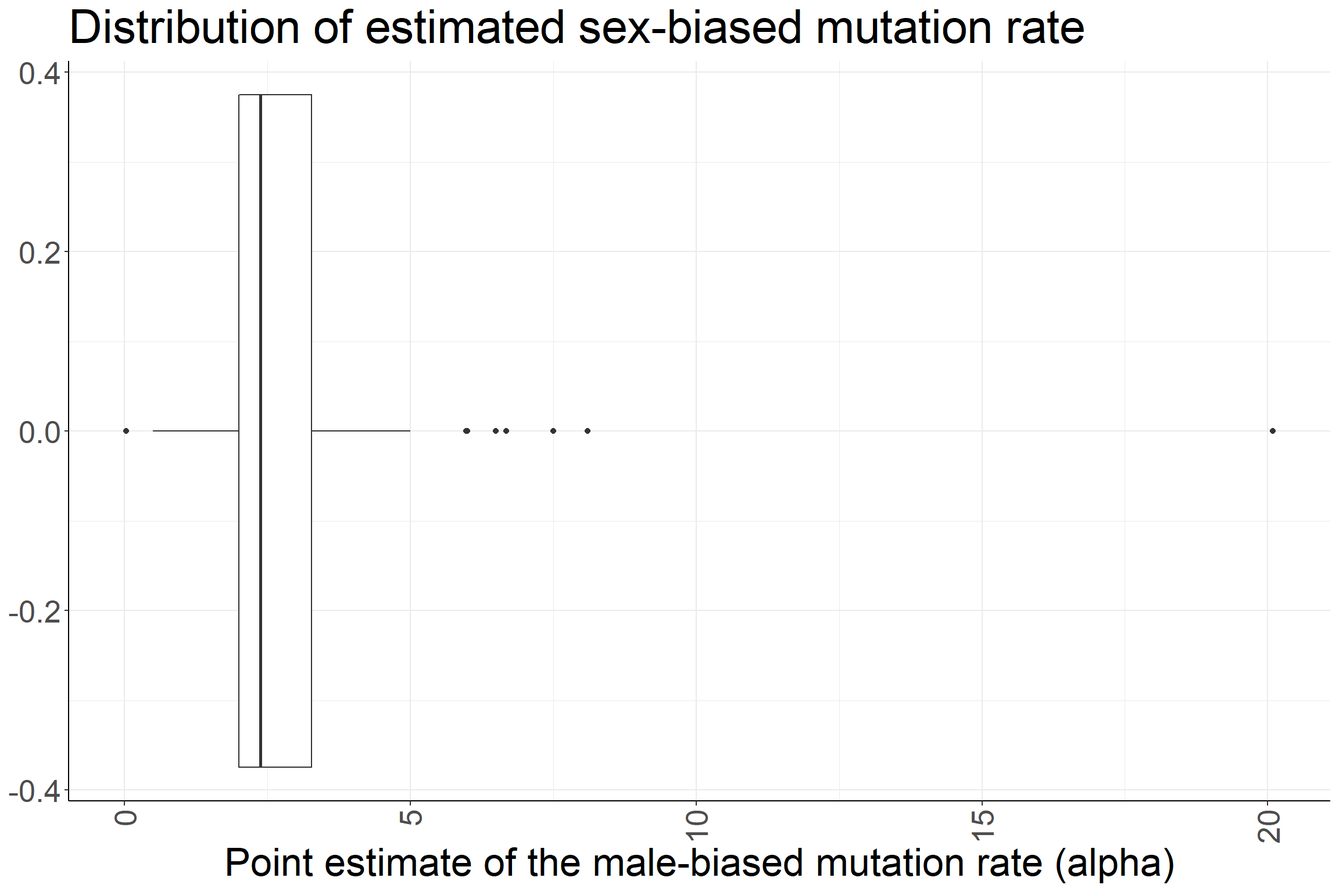
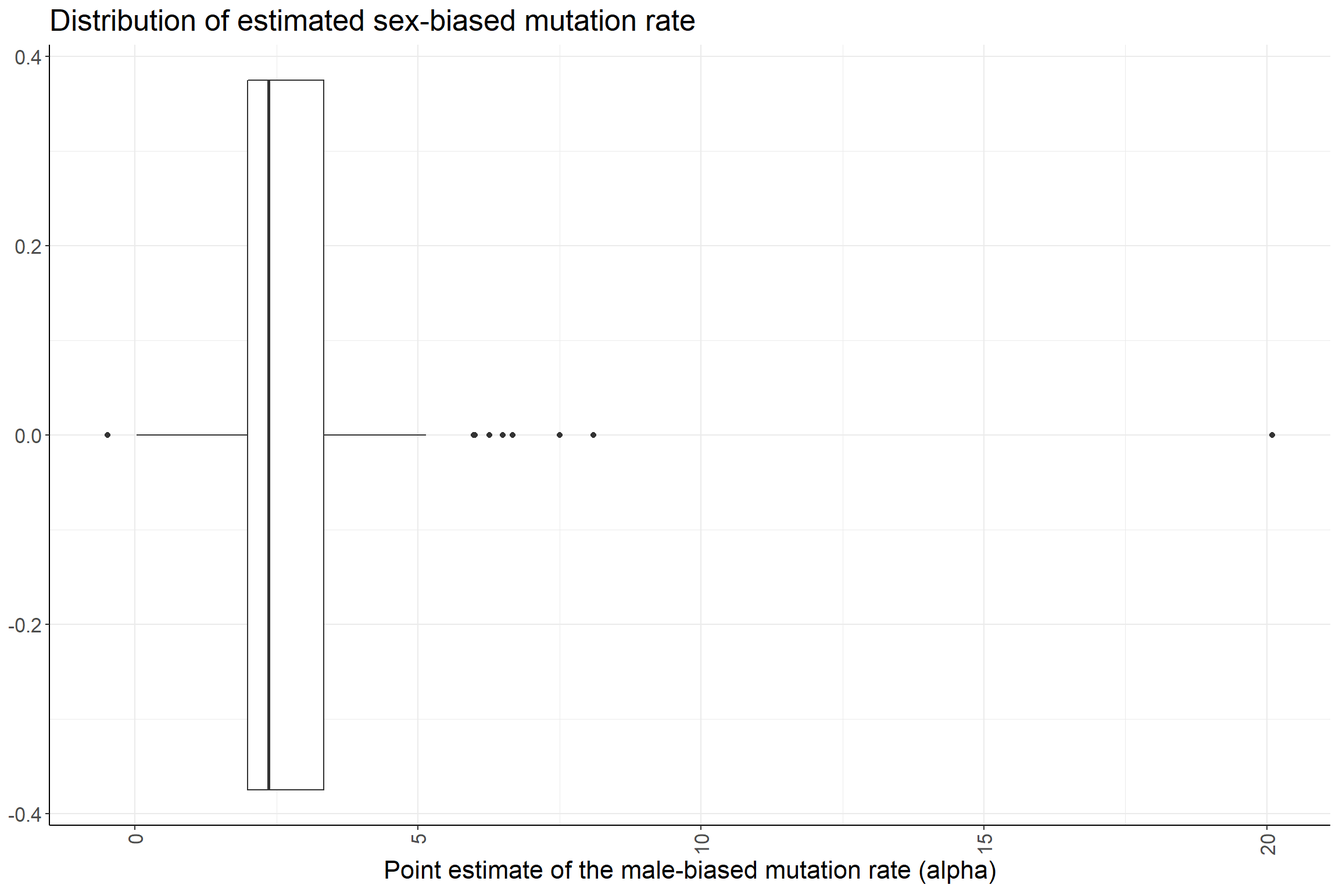
Build site.

diff --git a/docs/sex_biased_mutation_rate.html b/docs/sex_biased_mutation_rate.html
@@ -389,7 +389,7 @@ div.tocify {
 <div class="tab-content">
 <div id="summary" class="tab-pane fade in active">
 <p>
-<strong>Last updated:</strong> 2021-12-10
+<strong>Last updated:</strong> 2022-02-06
 </p>
 <p>
 <strong>Checks:</strong> <span class="glyphicon glyphicon-ok text-success" aria-hidden="true"></span> 7 <span class="glyphicon glyphicon-exclamation-sign text-danger" aria-hidden="true"></span> 0
@@ -480,22 +480,24 @@ This reproducible <a href="http://rmarkdown.rstudio.com">R Markdown</a> analysis
 <div class="panel panel-default">
 <div class="panel-heading">
 <p class="panel-title">
-<a data-toggle="collapse" data-parent="#workflowr-checks" href="#strongRepositoryversionstrongahrefhttpsgithubcomIJbeasleyunguardedxjournalclubtree5086eac8adbb63241fe9b3050f1ccac32aa908b1targetblank5086eaca"> <span class="glyphicon glyphicon-ok text-success" aria-hidden="true"></span> <strong>Repository version:</strong> <a href="https://github.com/IJbeasley/unguarded_x_journal_club/tree/5086eac8adbb63241fe9b3050f1ccac32aa908b1" target="_blank">5086eac</a> </a>
+<a data-toggle="collapse" data-parent="#workflowr-checks" href="#strongRepositoryversionstrongahrefhttpsgithubcomIJbeasleyunguardedxjournalclubtree3751ab00dbb8a15d62e18dc05f1b8072b1d857c9targetblank3751ab0a"> <span class="glyphicon glyphicon-ok text-success" aria-hidden="true"></span> <strong>Repository version:</strong> <a href="https://github.com/IJbeasley/unguarded_x_journal_club/tree/3751ab00dbb8a15d62e18dc05f1b8072b1d857c9" target="_blank">3751ab0</a> </a>
 </p>
 </div>
[2 lines of base64/hex data omitted]
 <div class="panel-body">
 <p>
 Great! You are using Git for version control. Tracking code development and connecting the code version to the results is critical for reproducibility.
 </p>
 <p>
-The results in this page were generated with repository version <a href="https://github.com/IJbeasley/unguarded_x_journal_club/tree/5086eac8adbb63241fe9b3050f1ccac32aa908b1" target="_blank">5086eac</a>. See the <em>Past versions</em> tab to see a history of the changes made to the R Markdown and HTML files.
+The results in this page were generated with repository version <a href="https://github.com/IJbeasley/unguarded_x_journal_club/tree/3751ab00dbb8a15d62e18dc05f1b8072b1d857c9" target="_blank">3751ab0</a>. See the <em>Past versions</em> tab to see a history of the changes made to the R Markdown and HTML files.
 </p>
 <p>
 Note that you need to be careful to ensure that all relevant files for the analysis have been committed to Git prior to generating the results (you can use <code>wflow_publish</code> or <code>wflow_git_commit</code>). workflowr only checks the R Markdown file, but you know if there are other scripts or data files that it depends on. Below is the status of the Git repository when the results were generated:
 </p>
 <pre><code>
-working directory clean
+Ignored files:
+    Ignored:    analysis/figure/
+
 </code></pre>
 <p>
 Note that any generated files, e.g. HTML, png, CSS, etc., are not included in this status report because it is ok for generated content to have uncommitted changes.
@@ -533,6 +535,40 @@ Message
 </tr>
 </thead>
 <tbody>
+<tr>
+<td>
+Rmd
+</td>
+<td>
+<a href="https://github.com/IJbeasley/unguarded_x_journal_club/blob/3751ab00dbb8a15d62e18dc05f1b8072b1d857c9/analysis/sex_biased_mutation_rate.Rmd" target="_blank">3751ab0</a>
+</td>
+<td>
+Isobel Beasley
+</td>
+<td>
+2022-02-06
+</td>
+<td>
+Update workflowr page for sex_biased_mutation_rate
+</td>
+</tr>
+<tr>
+<td>
+html
+</td>
+<td>
+<a href="https://rawcdn.githack.com/IJbeasley/unguarded_x_journal_club/1999cf48b11195375c7eb974f3ddd366e837a2d3/docs/sex_biased_mutation_rate.html" target="_blank">1999cf4</a>
+</td>
+<td>
+Isobel Beasley
+</td>
+<td>
+2021-12-10
+</td>
+<td>
+Build site.
+</td>
+</tr>
 <tr>
 <td>
 Rmd
@@ -693,23 +729,26 @@ Publish inital webpages project
 </div>
 </div>
 </div>
+<p><strong>Introduction</strong> This workflowr page contains investigations into Additionally - it illustrates how we produced Figure 1 for the paper.</p>
 <div id="set-up" class="section level1">
 <h1>Set up</h1>
 <pre class="r"><code>library(ggplot2)
 suppressMessages(library(dplyr))
 library(reactable)</code></pre>
 <pre><code>Warning: package &#39;reactable&#39; was built under R version 4.1.2</code></pre>
-<pre class="r"><code># only look at public sheets - so no authentication is needed
+<pre class="r"><code>library(tidyr)
+
+# only look at public sheets - so no authentication is needed
 googlesheets4::gs4_deauth()
 
 # read in sex bias mutation data.frame
-sex_bias_mut_df = googlesheets4::read_sheet(&quot;https://docs.google.com/spreadsheets/d/10ZVgeGlDpEnPG-4zLLrSBQjF7p2_9hzzIMPuIRuvogg/edit#gid=537547888&quot;, range = &quot;Alpha Estimates (each row is a single estimate)&quot;)</code></pre>
+sex_bias_mut_df = googlesheets4::read_sheet(&quot;https://docs.google.com/spreadsheets/d/10ZVgeGlDpEnPG-4zLLrSBQjF7p2_9hzzIMPuIRuvogg/edit#gid=537547888&quot;, range = &quot;Sex-bias estimates&quot;)</code></pre>
 <pre><code>v Reading from &quot;Sex_bias_mutation_rate&quot;.</code></pre>
-<pre><code>v Range &#39;&#39;Alpha Estimates (each row is a single estimate)&#39;&#39;.</code></pre>
+<pre><code>v Range &#39;&#39;Sex-bias estimates&#39;&#39;.</code></pre>
 <pre class="r"><code># what does the sex bias in mutation rate estimate look like: 
 head(sex_bias_mut_df) %&gt;% reactable()</code></pre>
 <div id="htmlwidget-0bc58612b86b389075fb" class="reactable html-widget" style="width:auto;height:auto;"></div>
-<script type="application/json" data-for="htmlwidget-0bc58612b86b389075fb">{"x":{"tag":{"name":"Reactable","attribs":{"data":{"authors":["Makova and Li","Ellegren and Fridolfsson","Bartosch-Härlid et al.","Bartosch-Härlid et al.","Bartosch-Härlid et al.","Bartosch-Härlid et al."],"year":[2002,2003,2003,2003,2003,2003],"taxonomic_class":["Mammalia","Actinopterygii","Aves","Aves","Aves","Aves"],"animal_name":["Primates (Human, Gorilla, Bonobo,Siamang,Gibbon)","Salmonid Fish","Birds (Passeriformes based clade)","Birds (Passeriformes based clade)","Birds (Passeriformes based clade)","Birds (Charadriiformes and Procellariiformes based clade)"],"scientific_name":["Homo sapiens;Gorilla gorilla;Pan paniscus;Symphalangus syndactylus;Hylobates lar","Oncorhynchus kisutch;Oncorhynchus tshawytscha","Agelaius phoeniceus;Cardinalis cardinalis;Emberiza citrinella;Emberiza schoeniclus;Icteria virens;Passer domesticus;Passer montanus;Prunella collaris;Prunella modularis;Setophaga citrina","Cyanistes caeruleus;Parus major;Hirundo rustica;Phylloscopus trochilus;Tachycineta bicolor;Troglodytes aedon","Erithacus rubecula;Ficedula albicollis;Sialia mexicana;Sialia sialis","Stercorarius antarcticus;Charadrius morinellus;Haematopus ostralegus;Chroicocephalus ridibundus;Fulmarus glacialis;Hydrobates leucorhous"],"alpha_point_estimate":[2.23,5.98,3.48,2.43,1.7,4.74],"alpha_estimate_lower":[1.47,5.35,2.34,1.67,0.88,3.42],"alpha_estimate_upper":[3.84,6.6,4.62,3.19,2.52,6.06],"method_used_to_calculate_alpha":["Evolutionary method (Miyata et al. 1987; comparing Y/Autosomes)","Evolutionary method (Miyata et al. 1987; comparing Y/Autosomes)","Evolutionary method (Miyata et al. 1987; comparing Z/W)","Evolutionary method (Miyata et al. 1987; comparing Z/W)","Evolutionary method (Miyata et al. 1987; comparing Z/W)","Evolutionary method (Miyata et al. 1987; comparing Z/W)"],"upper_lower_meaning":["Lower and upper estimates are the 95% confidence interval for alpha","Lower and upper estimates are based on different calculations for alpha","Lower and upper estimates are 2 standard errors from the mean (rough 95% confidence interval)","Lower and upper estimates are 2 standard errors from the mean (rough 95% confidence interval)","Lower and upper estimates are 2 standard errors from the mean (rough 95% confidence interval)","Lower and upper estimates are 2 standard errors from the mean (rough 95% confidence interval)"],"other_notes":["Compared Y with Chromosome 3","95% confidence intervals for each estimate include 1. Point estimate is just the mean of the lower and upper values",null,null,null,null],"loci_for_estimate":["Noncoding sequences (three segments)",null,"Introns (gene pairs)","Introns (gene pairs)","Introns (gene pairs)","Introns (gene pairs)"]},"columns":[{"accessor":"authors","name":"authors","type":"character"},{"accessor":"year","name":"year","type":"numeric"},{"accessor":"taxonomic_class","name":"taxonomic_class","type":"character"},{"accessor":"animal_name","name":"animal_name","type":"character"},{"accessor":"scientific_name","name":"scientific_name","type":"character"},{"accessor":"alpha_point_estimate","name":"alpha_point_estimate","type":"numeric"},{"accessor":"alpha_estimate_lower","name":"alpha_estimate_lower","type":"numeric"},{"accessor":"alpha_estimate_upper","name":"alpha_estimate_upper","type":"numeric"},{"accessor":"method_used_to_calculate_alpha","name":"method_used_to_calculate_alpha","type":"character"},{"accessor":"upper_lower_meaning","name":"upper_lower_meaning","type":"character"},{"accessor":"other_notes","name":"other_notes","type":"character"},{"accessor":"loci_for_estimate","name":"loci_for_estimate","type":"character"}],"defaultPageSize":10,"paginationType":"numbers","showPageInfo":true,"minRows":1,"dataKey":"5da085b4482c69a79db9b73b36090585","key":"5da085b4482c69a79db9b73b36090585"},"children":[]},"class":"reactR_markup"},"evals":[],"jsHooks":[]}</script>
+<script type="application/json" data-for="htmlwidget-0bc58612b86b389075fb">{"x":{"tag":{"name":"Reactable","attribs":{"data":{"authors":["Shimmin, Chang and Li","Chang et al.","Chang and Li","Chang, Hewett-Emmett and Li","Ellegren and Fridolfsson","Huang et al."],"year":[1993,1994,1995,1996,1997,1997],"taxonomic_class":["Mammalia","Mammalia","Mammalia","Mammalia","Aves","Mammalia"],"animal_name":["Primates (Human, Orangutan, Baboons, Squirrel Monkey)","Rodents (Mouse;Rat)","Rodents (Mouse;Rat)","Primates (Human, Orangutan, Baboons, Squirrel Monkey)","Birds (Collared flycatcher;Yellowhammer)","Primates (Human, Orangutan, Squirrel Monkey)"],"scientific_name":["Homo sapiens;Pongo pygmaeus;Papio\ncynocephalus;Saimiri boliviensis","Mus musculus;Rattus norvegicus","Mus musculus;Rattus norvegicus","Homo sapiens;Pongo pygmaeus;Papio\ncynocephalus;Saimiri boliviensis","Ficedula albicollis;Emberiza citrinella","Homo sapiens;Pongo pygmaeus;Saimiri boliviensis"],"alpha_point_estimate":[6.26,1,2,4.2,3.9,5.14],"alpha_estimate_lower":[2.63,1.8,1,2.2,1.12,2.42],"alpha_estimate_upper":[32.4,3.2,3.9,10,6.68,16.6],"method_used_to_calculate_alpha":["Evolutionary method (Miyata et al. 1987, comparing X/Y)","Evolutionary method (Miyata et al. 1987, comparing X/Y)","Evolutionary method (Miyata et al. 1987, comparing X/Y)","Evolutionary method (Miyata et al. 1987, comparing X/Y)","Evolutionary method (Miyata et al. 1987; comparing Z/W)","Evolutionary method (Miyata et al. 1987, comparing X/Y)"],"upper_lower_meaning":["Lower and upper estimates are the 95% confidence interval for alpha","Lower and upper estimates are the 95% confidence interval for alpha","Lower and upper estimates are the 95% confidence interval for alpha","Lower and upper estimates are the 95% confidence interval for alpha","Lower and upper estimates are the 95% confidence interval for alpha","Lower and upper estimates are the 95% confidence interval for alpha"],"loci_type_for_estimate":["Intron","Intron","Intron","Intron","Exon","Intron"],"number_of_loci_for_estimate":["Single gene pair","Single gene pair","Single gene pair","Single gene pair","Single gene pair","Single gene pair"],"mutation_type":[null,null,null,null,null,null],"other_notes":["Gene pair: ZFY/ZFX","Gene pair: ZFY/ZFX","Gene pair: Ube 1X/Ube 1Y","Gene pair: SMCY/SMCX","Gene pair: CHDZ / CHDW","Gene pair: AMGX/AMGY"]},"columns":[{"accessor":"authors","name":"authors","type":"character"},{"accessor":"year","name":"year","type":"numeric"},{"accessor":"taxonomic_class","name":"taxonomic_class","type":"character"},{"accessor":"animal_name","name":"animal_name","type":"character"},{"accessor":"scientific_name","name":"scientific_name","type":"character"},{"accessor":"alpha_point_estimate","name":"alpha_point_estimate","type":"numeric"},{"accessor":"alpha_estimate_lower","name":"alpha_estimate_lower","type":"numeric"},{"accessor":"alpha_estimate_upper","name":"alpha_estimate_upper","type":"numeric"},{"accessor":"method_used_to_calculate_alpha","name":"method_used_to_calculate_alpha","type":"character"},{"accessor":"upper_lower_meaning","name":"upper_lower_meaning","type":"character"},{"accessor":"loci_type_for_estimate","name":"loci_type_for_estimate","type":"character"},{"accessor":"number_of_loci_for_estimate","name":"number_of_loci_for_estimate","type":"character"},{"accessor":"mutation_type","name":"mutation_type","type":"character"},{"accessor":"other_notes","name":"other_notes","type":"character"}],"defaultPageSize":10,"paginationType":"numbers","showPageInfo":true,"minRows":1,"dataKey":"c7a55accab30ba4d2a8968dccbe0b3cd","key":"c7a55accab30ba4d2a8968dccbe0b3cd"},"children":[]},"class":"reactR_markup"},"evals":[],"jsHooks":[]}</script>
 <pre class="r"><code># Set up custom theme for ggplots
 custom_theme &lt;-
   list(
@@ -717,7 +756,7 @@ custom_theme &lt;-
       theme(
         panel.border = element_blank(),
         axis.line = element_line(),
-        text = element_text(size = 25),
+        text = element_text(size = 16),
         legend.position = &quot;bottom&quot;,
         strip.background = element_blank(),
         axis.text.x = element_text(angle = 90, hjust = 1, vjust = 0.5)
@@ -732,7 +771,7 @@ custom_theme &lt;-
   select(authors,year) %&gt;% 
   distinct() %&gt;% 
   nrow()</code></pre>
-<pre><code>[1] 34</code></pre>
+<pre><code>[1] 46</code></pre>
 </div>
 <div id="when-where-these-studies-published" class="section level2">
 <h2>When where these studies published?</h2>
@@ -775,7 +814,7 @@ custom_theme &lt;-
   summarise(n = n()) %&gt;% 
   reactable()</code></pre>
 <div id="htmlwidget-a71b15f820af623e53da" class="reactable html-widget" style="width:auto;height:auto;"></div>
-<script type="application/json" data-for="htmlwidget-a71b15f820af623e53da">{"x":{"tag":{"name":"Reactable","attribs":{"data":{"taxonomic_class":["Actinopterygii","Amphibia","Arachnida","Aves","Mammalia","Reptilia"],"n":[1,2,2,74,60,5]},"columns":[{"accessor":"taxonomic_class","name":"taxonomic_class","type":"character"},{"accessor":"n","name":"n","type":"numeric"}],"defaultPageSize":10,"paginationType":"numbers","showPageInfo":true,"minRows":1,"dataKey":"5b79cc8d4bc72bf37748001eb95d6ac0","key":"5b79cc8d4bc72bf37748001eb95d6ac0"},"children":[]},"class":"reactR_markup"},"evals":[],"jsHooks":[]}</script>
+<script type="application/json" data-for="htmlwidget-a71b15f820af623e53da">{"x":{"tag":{"name":"Reactable","attribs":{"data":{"taxonomic_class":["Actinopterygii","Amphibia","Arachnida","Aves","Insecta","Mammalia","Reptilia"],"n":[1,2,2,74,3,71,5]},"columns":[{"accessor":"taxonomic_class","name":"taxonomic_class","type":"character"},{"accessor":"n","name":"n","type":"numeric"}],"defaultPageSize":10,"paginationType":"numbers","showPageInfo":true,"minRows":1,"dataKey":"b37d009d332399f309daa81edb54b66f","key":"b37d009d332399f309daa81edb54b66f"},"children":[]},"class":"reactR_markup"},"evals":[],"jsHooks":[]}</script>
 </div>
 <div id="number-of-estimates-per-method-used-to-calculate-the-sex-biased-ratio-in-mutation-rate" class="section level2">
 <h2>Number of estimates per method used to calculate the sex-biased ratio in mutation rate</h2>
@@ -784,28 +823,28 @@ custom_theme &lt;-
   summarise(n = n()) %&gt;% 
   reactable(defaultPageSize = 50)</code></pre>
 <div id="htmlwidget-953d50596abf826ad1b4" class="reactable html-widget" style="width:auto;height:auto;"></div>
-<script type="application/json" data-for="htmlwidget-953d50596abf826ad1b4">{"x":{"tag":{"name":"Reactable","attribs":{"data":{"method_used_to_calculate_alpha":["Direct estimate (trios)","Evolutionary method (Miyata et al. 1987; comparing W/Autosomes)","Evolutionary method (Miyata et al. 1987; comparing X/Autosomes)","Evolutionary method (Miyata et al. 1987; comparing X/Y)","Evolutionary method (Miyata et al. 1987; comparing Y/Autosomes)","Evolutionary method (Miyata et al. 1987; comparing Z/Autosomes)","Evolutionary method (Miyata et al. 1987; comparing Z/W)"],"n":[12,1,42,9,6,58,16]},"columns":[{"accessor":"method_used_to_calculate_alpha","name":"method_used_to_calculate_alpha","type":"character"},{"accessor":"n","name":"n","type":"numeric"}],"defaultPageSize":50,"paginationType":"numbers","showPageInfo":true,"minRows":1,"dataKey":"eb2fb95cccac3bab9e23f79d862516e6","key":"eb2fb95cccac3bab9e23f79d862516e6"},"children":[]},"class":"reactR_markup"},"evals":[],"jsHooks":[]}</script>
+<script type="application/json" data-for="htmlwidget-953d50596abf826ad1b4">{"x":{"tag":{"name":"Reactable","attribs":{"data":{"method_used_to_calculate_alpha":["Direct estimate (trios)","Evolutionary method (Miyata et al. 1987, comparing X/Y)","Evolutionary method (Miyata et al. 1987; comparing W/Autosomes)","Evolutionary method (Miyata et al. 1987; comparing X/Autosomes)","Evolutionary method (Miyata et al. 1987; comparing X/Y)","Evolutionary method (Miyata et al. 1987; comparing Y/Autosomes)","Evolutionary method (Miyata et al. 1987; comparing Z/Autosomes)","Evolutionary method (Miyata et al. 1987; comparing Z/W)"],"n":[14,5,1,49,9,6,58,16]},"columns":[{"accessor":"method_used_to_calculate_alpha","name":"method_used_to_calculate_alpha","type":"character"},{"accessor":"n","name":"n","type":"numeric"}],"defaultPageSize":50,"paginationType":"numbers","showPageInfo":true,"minRows":1,"dataKey":"6d4b1574f21840c6957f26e7bd331f36","key":"6d4b1574f21840c6957f26e7bd331f36"},"children":[]},"class":"reactR_markup"},"evals":[],"jsHooks":[]}</script>
 </div>
 <div id="number-of-estimates-per-loci-type-used-to-calculate-the-sex-biased-ratio-in-mutation-rate" class="section level2">
 <h2>Number of estimates per loci type used to calculate the sex-biased ratio in mutation rate</h2>
 <pre class="r"><code>sex_bias_mut_df %&gt;% 
-  group_by(loci_for_estimate) %&gt;% 
+  group_by(loci_type_for_estimate) %&gt;% 
   summarise(n = n()) %&gt;% 
   reactable(defaultPageSize = 50)</code></pre>
 <div id="htmlwidget-dfb6bc2cdefdbd9c15ee" class="reactable html-widget" style="width:auto;height:auto;"></div>
-<script type="application/json" data-for="htmlwidget-dfb6bc2cdefdbd9c15ee">{"x":{"tag":{"name":"Reactable","attribs":{"data":{"loci_for_estimate":["Exon sequence (gene pair)","Exons and introns (five sequences)","Intron (gene pair)","Intron sequence (single)","Introns (gene pairs)","Microsattelites (three)","Neutral ancestoral repeat regions","Noncoding sequences (three segments)","Orthologous introns","Orthologues (intronic sequences)","Synonymous sites","Whole-genome (introns)","Whole-genome (non-coding)","Whole-genome (synonymous sites)","Whole-genome sequence","Whole genome sequences",null],"n":[1,2,6,1,7,1,1,1,3,9,2,44,32,10,1,1,22]},"columns":[{"accessor":"loci_for_estimate","name":"loci_for_estimate","type":"character"},{"accessor":"n","name":"n","type":"numeric"}],"defaultPageSize":50,"paginationType":"numbers","showPageInfo":true,"minRows":1,"dataKey":"f2a342f028699509a5abed754da63d5c","key":"f2a342f028699509a5abed754da63d5c"},"children":[]},"class":"reactR_markup"},"evals":[],"jsHooks":[]}</script>
+<script type="application/json" data-for="htmlwidget-dfb6bc2cdefdbd9c15ee">{"x":{"tag":{"name":"Reactable","attribs":{"data":{"loci_type_for_estimate":["Ancestral repeat","Ancestral repeats","Exon","Intron","Microsattelite","Non-coding","Noncoding sequence","Short tandem repeat (STR)","Synomous site","Synonymous site","Whole genome",null],"n":[1,2,1,76,2,32,1,1,1,12,1,28]},"columns":[{"accessor":"loci_type_for_estimate","name":"loci_type_for_estimate","type":"character"},{"accessor":"n","name":"n","type":"numeric"}],"defaultPageSize":50,"paginationType":"numbers","showPageInfo":true,"minRows":1,"dataKey":"ebdd64bdf67086753b764a970f5264da","key":"ebdd64bdf67086753b764a970f5264da"},"children":[]},"class":"reactR_markup"},"evals":[],"jsHooks":[]}</script>
 <pre class="r"><code># Number of unique studies
 
 sex_bias_mut_df %&gt;% 
   group_by(authors,year) %&gt;% 
   sample_n(1) %&gt;% 
   ungroup() %&gt;% 
-  group_by(taxonomic_class,loci_for_estimate) %&gt;% 
+  group_by(taxonomic_class,loci_type_for_estimate) %&gt;% 
   summarise(n = n()) %&gt;% 
   reactable(defaultPageSize = 50)</code></pre>
 <pre><code>`summarise()` has grouped output by &#39;taxonomic_class&#39;. You can override using the `.groups` argument.</code></pre>
 <div id="htmlwidget-780cb9f563e2acfaa2c2" class="reactable html-widget" style="width:auto;height:auto;"></div>
-<script type="application/json" data-for="htmlwidget-780cb9f563e2acfaa2c2">{"x":{"tag":{"name":"Reactable","attribs":{"data":{"taxonomic_class":["Actinopterygii","Amphibia","Arachnida","Aves","Aves","Aves","Aves","Aves","Aves","Aves","Aves","Aves","Mammalia","Mammalia","Mammalia","Mammalia","Mammalia","Mammalia","Reptilia","Reptilia"],"loci_for_estimate":[null,"Exons and introns (five sequences)","Synonymous sites","Intron (gene pair)","Intron sequence (single)","Introns (gene pairs)","Microsattelites (three)","Neutral ancestoral repeat regions","Orthologous introns","Whole-genome (introns)","Whole-genome (synonymous sites)",null,"Intron (gene pair)","Noncoding sequences (three segments)","Orthologues (intronic sequences)","Whole-genome (non-coding)","Whole-genome sequence",null,"Whole genome sequences",null],"n":[1,1,1,2,1,1,1,1,1,1,1,2,2,1,1,1,1,11,1,2]},"columns":[{"accessor":"taxonomic_class","name":"taxonomic_class","type":"character"},{"accessor":"loci_for_estimate","name":"loci_for_estimate","type":"character"},{"accessor":"n","name":"n","type":"numeric"}],"defaultPageSize":50,"paginationType":"numbers","showPageInfo":true,"minRows":1,"dataKey":"ce6d3bcfe44b6ea439f65e01a03c5a65","key":"ce6d3bcfe44b6ea439f65e01a03c5a65"},"children":[]},"class":"reactR_markup"},"evals":[],"jsHooks":[]}</script>
+<script type="application/json" data-for="htmlwidget-780cb9f563e2acfaa2c2">{"x":{"tag":{"name":"Reactable","attribs":{"data":{"taxonomic_class":["Actinopterygii","Amphibia","Arachnida","Aves","Aves","Aves","Aves","Aves","Aves","Insecta","Insecta","Mammalia","Mammalia","Mammalia","Mammalia","Mammalia","Mammalia","Mammalia","Mammalia","Reptilia"],"loci_type_for_estimate":["Intron",null,"Synonymous site","Ancestral repeat","Exon","Intron","Microsattelite","Synonymous site",null,"Synomous site",null,"Ancestral repeats","Intron","Microsattelite","Non-coding","Noncoding sequence","Short tandem repeat (STR)","Whole genome",null,null],"n":[1,1,1,1,1,5,1,1,2,1,1,1,8,1,1,1,1,1,13,3]},"columns":[{"accessor":"taxonomic_class","name":"taxonomic_class","type":"character"},{"accessor":"loci_type_for_estimate","name":"loci_type_for_estimate","type":"character"},{"accessor":"n","name":"n","type":"numeric"}],"defaultPageSize":50,"paginationType":"numbers","showPageInfo":true,"minRows":1,"dataKey":"2ff56732c8183689d422bde3864f32a8","key":"2ff56732c8183689d422bde3864f32a8"},"children":[]},"class":"reactR_markup"},"evals":[],"jsHooks":[]}</script>
 </div>
 <div id="number-of-estimates-by-both-taxonomic-class-and-method-used-to-calculate" class="section level2">
 <h2>Number of estimates by both taxonomic class and method used to calculate</h2>
@@ -815,7 +854,7 @@ sex_bias_mut_df %&gt;%
   reactable(defaultPageSize = 50)</code></pre>
 <pre><code>`summarise()` has grouped output by &#39;taxonomic_class&#39;. You can override using the `.groups` argument.</code></pre>
 <div id="htmlwidget-de5fccbccc4019eddf97" class="reactable html-widget" style="width:auto;height:auto;"></div>
-<script type="application/json" data-for="htmlwidget-de5fccbccc4019eddf97">{"x":{"tag":{"name":"Reactable","attribs":{"data":{"taxonomic_class":["Actinopterygii","Amphibia","Amphibia","Arachnida","Aves","Aves","Aves","Aves","Mammalia","Mammalia","Mammalia","Mammalia","Reptilia","Reptilia","Reptilia","Reptilia"],"method_used_to_calculate_alpha":["Evolutionary method (Miyata et al. 1987; comparing Y/Autosomes)","Evolutionary method (Miyata et al. 1987; comparing X/Y)","Evolutionary method (Miyata et al. 1987; comparing Z/W)","Evolutionary method (Miyata et al. 1987; comparing X/Autosomes)","Direct estimate (trios)","Evolutionary method (Miyata et al. 1987; comparing W/Autosomes)","Evolutionary method (Miyata et al. 1987; comparing Z/Autosomes)","Evolutionary method (Miyata et al. 1987; comparing Z/W)","Direct estimate (trios)","Evolutionary method (Miyata et al. 1987; comparing X/Autosomes)","Evolutionary method (Miyata et al. 1987; comparing X/Y)","Evolutionary method (Miyata et al. 1987; comparing Y/Autosomes)","Evolutionary method (Miyata et al. 1987; comparing X/Autosomes)","Evolutionary method (Miyata et al. 1987; comparing X/Y)","Evolutionary method (Miyata et al. 1987; comparing Y/Autosomes)","Evolutionary method (Miyata et al. 1987; comparing Z/Autosomes)"],"n":[1,1,1,2,2,1,56,15,10,39,7,4,1,1,1,2]},"columns":[{"accessor":"taxonomic_class","name":"taxonomic_class","type":"character"},{"accessor":"method_used_to_calculate_alpha","name":"method_used_to_calculate_alpha","type":"character"},{"accessor":"n","name":"n","type":"numeric"}],"defaultPageSize":50,"paginationType":"numbers","showPageInfo":true,"minRows":1,"dataKey":"c74c337458f9fec8589a8900afab966f","key":"c74c337458f9fec8589a8900afab966f"},"children":[]},"class":"reactR_markup"},"evals":[],"jsHooks":[]}</script>
+<script type="application/json" data-for="htmlwidget-de5fccbccc4019eddf97">{"x":{"tag":{"name":"Reactable","attribs":{"data":{"taxonomic_class":["Actinopterygii","Amphibia","Amphibia","Arachnida","Aves","Aves","Aves","Aves","Insecta","Mammalia","Mammalia","Mammalia","Mammalia","Mammalia","Reptilia","Reptilia","Reptilia","Reptilia"],"method_used_to_calculate_alpha":["Evolutionary method (Miyata et al. 1987; comparing Y/Autosomes)","Evolutionary method (Miyata et al. 1987; comparing X/Y)","Evolutionary method (Miyata et al. 1987; comparing Z/W)","Evolutionary method (Miyata et al. 1987; comparing X/Autosomes)","Direct estimate (trios)","Evolutionary method (Miyata et al. 1987; comparing W/Autosomes)","Evolutionary method (Miyata et al. 1987; comparing Z/Autosomes)","Evolutionary method (Miyata et al. 1987; comparing Z/W)","Evolutionary method (Miyata et al. 1987; comparing X/Autosomes)","Direct estimate (trios)","Evolutionary method (Miyata et al. 1987, comparing X/Y)","Evolutionary method (Miyata et al. 1987; comparing X/Autosomes)","Evolutionary method (Miyata et al. 1987; comparing X/Y)","Evolutionary method (Miyata et al. 1987; comparing Y/Autosomes)","Evolutionary method (Miyata et al. 1987; comparing X/Autosomes)","Evolutionary method (Miyata et al. 1987; comparing X/Y)","Evolutionary method (Miyata et al. 1987; comparing Y/Autosomes)","Evolutionary method (Miyata et al. 1987; comparing Z/Autosomes)"],"n":[1,1,1,2,2,1,56,15,3,12,5,43,7,4,1,1,1,2]},"columns":[{"accessor":"taxonomic_class","name":"taxonomic_class","type":"character"},{"accessor":"method_used_to_calculate_alpha","name":"method_used_to_calculate_alpha","type":"character"},{"accessor":"n","name":"n","type":"numeric"}],"defaultPageSize":50,"paginationType":"numbers","showPageInfo":true,"minRows":1,"dataKey":"9b9e048f560c62e14a5531764c08fd8d","key":"9b9e048f560c62e14a5531764c08fd8d"},"children":[]},"class":"reactR_markup"},"evals":[],"jsHooks":[]}</script>
 </div>
 </div>
 <div id="distribution-of-sex-biased-mutation-estimates" class="section level1">
@@ -842,7 +881,7 @@ sex_bias_mut_df %&gt;%
 <p><img src="figure/sex_biased_mutation_rate.Rmd/dist_sex_est-1.png" width="1152" style="display: block; margin: auto;" /></p>
 <pre class="r"><code>summary(sex_bias_mut_df$alpha_point_estimate)</code></pre>
 <pre><code>   Min. 1st Qu.  Median    Mean 3rd Qu.    Max. 
- 0.0283  2.0000  2.3750  2.8803  3.2700 20.0900 </code></pre>
+ -0.480   1.992   2.365   2.873   3.337  20.090 </code></pre>
 <pre class="r"><code>sex_bias_mut_df %&gt;% 
   ggplot(aes(x=alpha_point_estimate)) +
   geom_boxplot() + 
@@ -859,7 +898,7 @@ sex_bias_mut_df %&gt;%
   geom_histogram(bins = 50) + 
   labs(title = &quot;Distribution of estimated sex-biased mutation rate&quot;,
         x = &quot;Point estimate of the male-biased mutation rate (alpha)&quot;,
-       y= &quot;Count&quot;) + 
+       y= &quot;Number of estimates&quot;) + 
   custom_theme + 
   geom_vline(xintercept = 1, col = &quot;red&quot;, linetype = 2, size = 2) + 
   annotate(
@@ -876,15 +915,54 @@ sex_bias_mut_df %&gt;%
 </div>
 <div id="by-taxonomic-class" class="section level2">
 <h2>By Taxonomic Class</h2>
-<pre class="r"><code>sex_bias_mut_df %&gt;% 
+<pre class="r"><code>df= sex_bias_mut_df %&gt;% 
+  filter(alpha_point_estimate&lt;20) %&gt;% 
   ggplot(aes(x=alpha_point_estimate)) + 
   geom_histogram(bins = 25) + 
-  labs(title = &quot;Distribution of estimated sex-biased mutation rate&quot;,
+  labs(title = &quot;Distribution of sex-biased mutation rate estimtates&quot;,
         x = &quot;Point estimate of the male-biased mutation rate (alpha)&quot;,
-       y= &quot;Count&quot;) + 
+       y= &quot;Number of estimates&quot;) + 
   custom_theme + 
   geom_vline(xintercept = 1, col = &quot;red&quot;, linetype = 2, size = 2) + 
-  facet_wrap(~taxonomic_class)</code></pre>
+  facet_wrap(~taxonomic_class)
+
+n_by_taxa = sex_bias_mut_df %&gt;% 
+            group_by(taxonomic_class) %&gt;% 
+            summarise(n = n()) 
+
+library(gridExtra)</code></pre>
+<pre><code>
+Attaching package: &#39;gridExtra&#39;</code></pre>
+<pre><code>The following object is masked from &#39;package:dplyr&#39;:
+
+    combine</code></pre>
+<pre class="r"><code>df_2 = sex_bias_mut_df %&gt;%   
+  select(authors,year,scientific_name) %&gt;% 
+  distinct() %&gt;% 
+  ggplot(aes(x=year)) + 
+  geom_histogram() + 
+  custom_theme  + 
+  labs(x = &quot;Year published*&quot;,
+       y = &quot;Number of estimates&quot;,
+       title = &quot;How many unique estimates per year?&quot;)
+
+
+df_3 = sex_bias_mut_df %&gt;%   
+  select(authors,year) %&gt;% 
+  distinct() %&gt;% 
+  ggplot(aes(x=year)) + 
+  geom_histogram() + 
+  custom_theme  + 
+  labs(x = &quot;Year published*&quot;,
+       y = &quot;Number of studies&quot;,
+       title = &quot;What year were our collated studies published?&quot;)
+
+
+library(patchwork)
+
+(df) / (df_2 + df_3)</code></pre>
+<pre><code>`stat_bin()` using `bins = 30`. Pick better value with `binwidth`.</code></pre>
+<pre><code>`stat_bin()` using `bins = 30`. Pick better value with `binwidth`.</code></pre>
 <p><img src="figure/sex_biased_mutation_rate.Rmd/sex_bias_by_taxo_class-1.png" width="1152" style="display: block; margin: auto;" /></p>
 </div>
 <div id="by-method-used-to-calculate-estimate-of-male-biased-mutation-rate" class="section level2">
@@ -900,6 +978,35 @@ sex_bias_mut_df %&gt;%
        y= &quot;Count&quot;)</code></pre>
 <pre><code>`stat_bin()` using `bins = 30`. Pick better value with `binwidth`.</code></pre>
 <p><img src="figure/sex_biased_mutation_rate.Rmd/sex_bias_by_method-1.png" width="2880" style="display: block; margin: auto;" /></p>
+</div>
+<div id="confidence-intervals--" class="section level2">
+<h2>Confidence intervals -</h2>
+<pre class="r"><code>df= sex_bias_mut_df %&gt;% 
+  filter(upper_lower_meaning == &quot;Lower and upper estimates are the 95% confidence interval for alpha&quot;|
+         upper_lower_meaning == &quot;Lower and upper estimates are 2 standard errors from the mean (rough 95% confidence interval)&quot;) %&gt;% 
+  mutate(se = (alpha_estimate_upper - alpha_point_estimate)/2) 
+
+
+df %&gt;% 
+  select(taxonomic_class,se) %&gt;% 
+  mutate(row = row_number()) %&gt;% 
+  pivot_wider(names_from = taxonomic_class,
+              values_from = se,
+              values_fn = list)</code></pre>
+<pre><code># A tibble: 118 x 6
+     row Mammalia  Aves      Amphibia Reptilia Insecta
+   &lt;int&gt; &lt;list&gt;    &lt;list&gt;    &lt;list&gt;   &lt;list&gt;   &lt;list&gt; 
+ 1     1 &lt;dbl [1]&gt; &lt;NULL&gt;    &lt;NULL&gt;   &lt;NULL&gt;   &lt;NULL&gt; 
+ 2     2 &lt;dbl [1]&gt; &lt;NULL&gt;    &lt;NULL&gt;   &lt;NULL&gt;   &lt;NULL&gt; 
+ 3     3 &lt;dbl [1]&gt; &lt;NULL&gt;    &lt;NULL&gt;   &lt;NULL&gt;   &lt;NULL&gt; 
+ 4     4 &lt;dbl [1]&gt; &lt;NULL&gt;    &lt;NULL&gt;   &lt;NULL&gt;   &lt;NULL&gt; 
+ 5     5 &lt;NULL&gt;    &lt;dbl [1]&gt; &lt;NULL&gt;   &lt;NULL&gt;   &lt;NULL&gt; 
+ 6     6 &lt;dbl [1]&gt; &lt;NULL&gt;    &lt;NULL&gt;   &lt;NULL&gt;   &lt;NULL&gt; 
+ 7     7 &lt;NULL&gt;    &lt;dbl [1]&gt; &lt;NULL&gt;   &lt;NULL&gt;   &lt;NULL&gt; 
+ 8     8 &lt;NULL&gt;    &lt;dbl [1]&gt; &lt;NULL&gt;   &lt;NULL&gt;   &lt;NULL&gt; 
+ 9     9 &lt;dbl [1]&gt; &lt;NULL&gt;    &lt;NULL&gt;   &lt;NULL&gt;   &lt;NULL&gt; 
+10    10 &lt;NULL&gt;    &lt;dbl [1]&gt; &lt;NULL&gt;   &lt;NULL&gt;   &lt;NULL&gt; 
+# ... with 108 more rows</code></pre>
 <br>
 <p>
 <button type="button" class="btn btn-default btn-workflowr btn-workflowr-sessioninfo" data-toggle="collapse" data-target="#workflowr-sessioninfo" style="display: block;">
@@ -923,7 +1030,8 @@ attached base packages:
 [1] stats     graphics  grDevices utils     datasets  methods   base     
 
 other attached packages:
-[1] reactable_0.2.3 dplyr_1.0.6     ggplot2_3.3.5   workflowr_1.6.2
+[1] patchwork_1.1.1 gridExtra_2.3   tidyr_1.1.3     reactable_0.2.3
+[5] dplyr_1.0.6     ggplot2_3.3.5   workflowr_1.6.2
 
 loaded via a namespace (and not attached):
  [1] tidyselect_1.1.1    xfun_0.24           bslib_0.2.5.1      
@@ -944,8 +1052,8 @@ loaded via a namespace (and not attached):
 [46] cli_3.1.0           tools_4.1.0         magrittr_2.0.1     
 [49] sass_0.4.0          tibble_3.1.2        crayon_1.4.1       
 [52] whisker_0.4         pkgconfig_2.0.3     ellipsis_0.3.2     
-[55] googledrive_2.0.0   assertthat_0.2.1    rmarkdown_2.9      
-[58] httr_1.4.2          rstudioapi_0.13     R6_2.5.0           
+[55] googledrive_2.0.0   rstudioapi_0.13     assertthat_0.2.1   
+[58] rmarkdown_2.9       httr_1.4.2          R6_2.5.0           
 [61] git2r_0.29.0        compiler_4.1.0     </code></pre>
 </div>
 </div>
